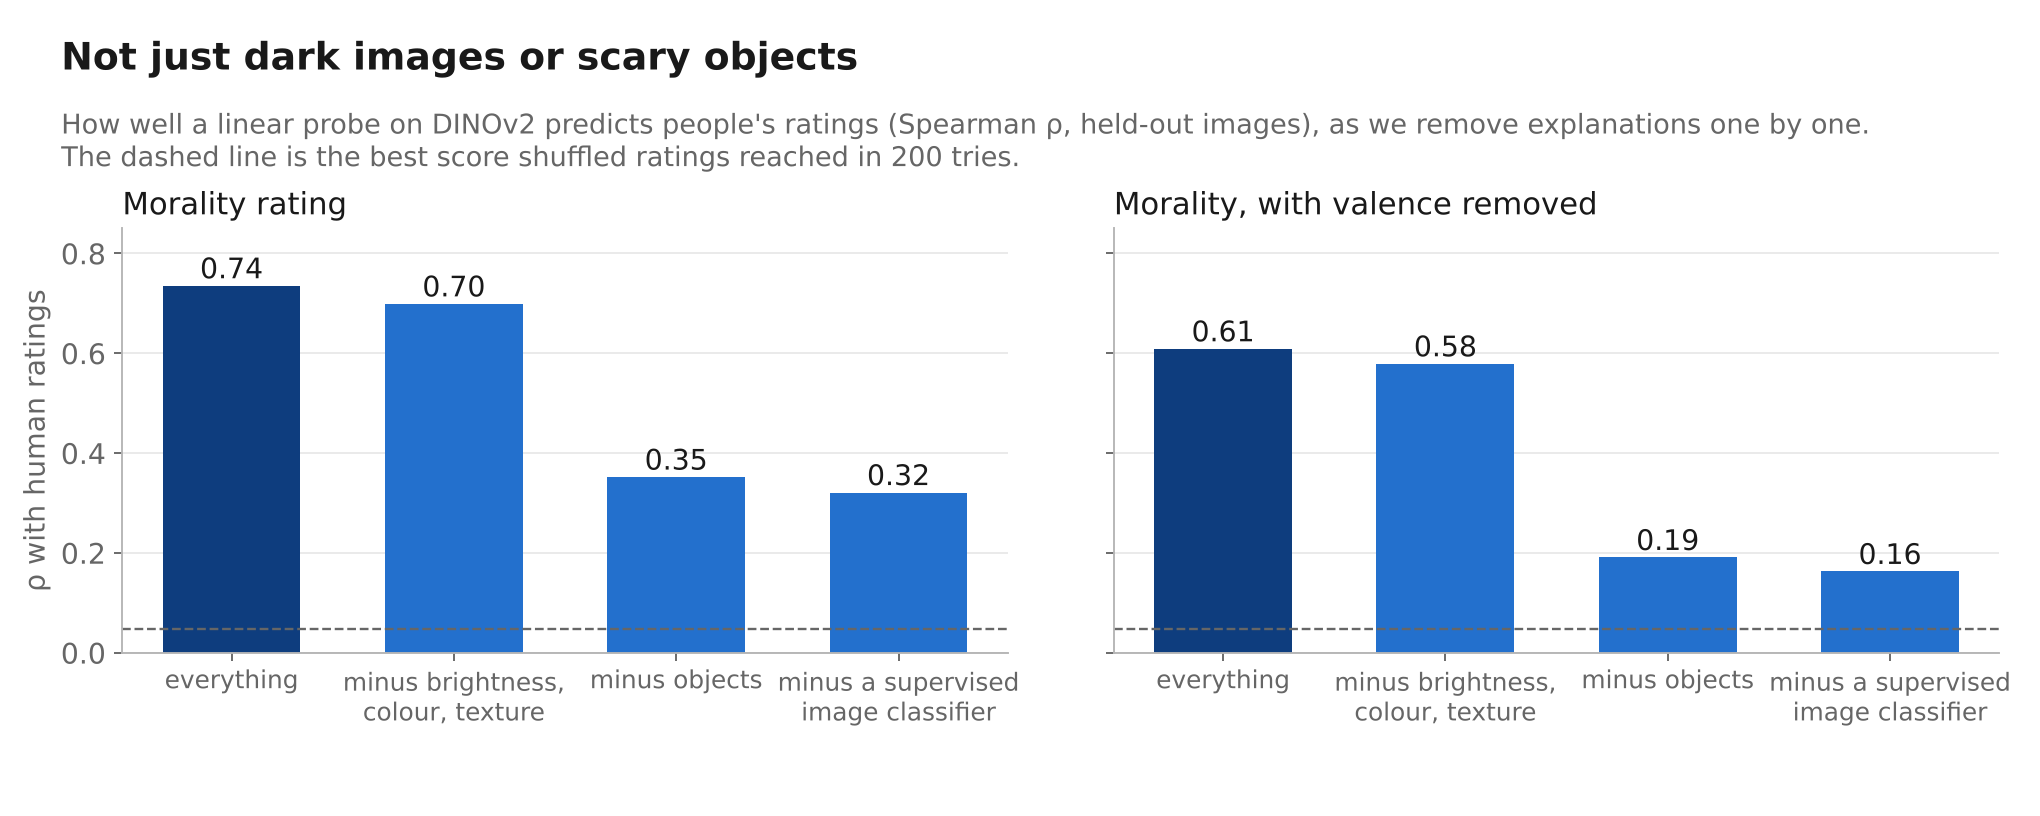
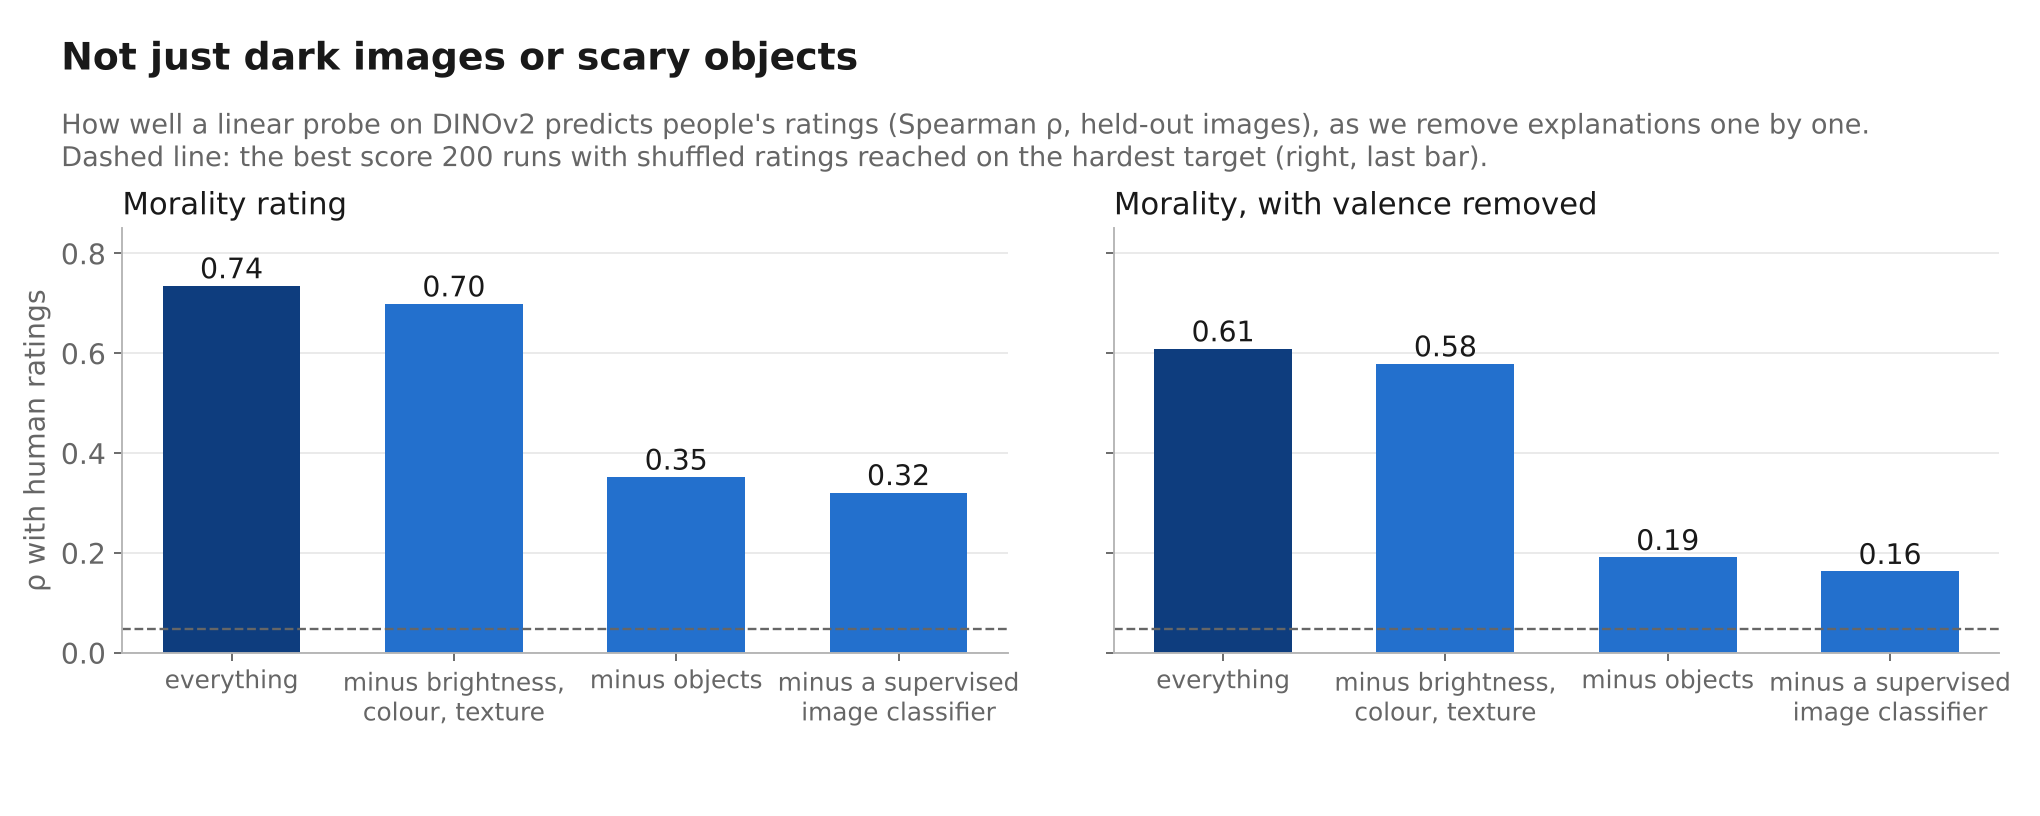
README as a short story; photo, word and shared-direction figures
Claude-Session: https://claude.ai/code/session_01EmQii7wm2z1HYEgYwzsuwy

Changed region(s): [[0.0309, 0.1838, 0.7412, 0.2145]]

diff --git a/src/make_story_figures.py b/src/make_story_figures.py
@@ -28,7 +28,7 @@ def controls():
     fig.subplots_adjust(top=0.72, bottom=0.2, left=0.06, right=0.98, wspace=0.12)
     title(fig, "Not just dark images or scary objects",
           "How well a linear probe on DINOv2 predicts people's ratings (Spearman ρ, held-out images), as we remove explanations one by one.\n"
-          "The dashed line is the best score shuffled ratings reached in 200 tries.")
+          "Dashed line: the best score 200 runs with shuffled ratings reached on the hardest target (right, last bar).")
     for a, vals, name in [(ax[0], mor, "Morality rating"), (ax[1], mbv, "Morality, with valence removed")]:
         cols = [DARK] + [BLUE] * 3
         a.bar(range(4), vals, color=cols, width=0.62)
@@ -116,7 +116,61 @@ def shared():
     fig.savefig(FIG / "story_shared.png", dpi=170); plt.close(fig)
 
 
+ORANGE = "#e76624"
+
+
+def _crop(path, ratio=4 / 3):
+    from PIL import Image
+    im = Image.open(path).convert("RGB"); w, h = im.size
+    if w / h > ratio:
+        nw = int(h * ratio); im = im.crop(((w - nw) // 2, 0, (w - nw) // 2 + nw, h))
+    else:
+        nh = int(w / ratio); im = im.crop((0, (h - nh) // 2, w, (h - nh) // 2 + nh))
+    return im
+
+
+def hero():
+    """Five SMID photos in the order DINOv2 places them, from morally bad to good."""
+    P = pd.read_csv(R / "story" / "example_picks.csv")
+    P = P[P.group == "hero"].sort_values("dinov2_morality_percentile")
+    fig = plt.figure(figsize=(13, 4.6))
+    title(fig, "A vision model that never saw a label or a word orders images from bad to good",
+          "SMID photos in the order a linear probe on DINOv2 places them. Below each: the average human morality rating (1 = very bad, 5 = very good).")
+    n = len(P); w = 0.94 / n
+    for i, r in enumerate(P.itertuples()):
+        a = fig.add_axes([0.03 + i * w, 0.27, w - 0.012, 0.5])
+        a.imshow(_crop(R / "story" / "thumbs" / f"{r.image}.jpg")); a.axis("off")
+        fig.text(0.03 + i * w + (w - 0.012) / 2, 0.2, f"people: {r.morality_rating:.1f}", ha="center", fontsize=12, color=INK)
+    import numpy as np
+    a = fig.add_axes([0.03, 0.08, 0.928, 0.04])
+    a.imshow(np.linspace(0, 1, 256)[None, :], aspect="auto", cmap=__import__("matplotlib").colors.LinearSegmentedColormap.from_list("g", [ORANGE, "#d9d9d9", DARK]))
+    a.set_xticks([]); a.set_yticks([]); [sp.set_visible(False) for sp in a.spines.values()]
+    fig.text(0.03, 0.015, "DINOv2: morally bad", color=ORANGE, fontsize=12, weight="bold")
+    fig.text(0.958, 0.015, "DINOv2: morally good", color=DARK, fontsize=12, weight="bold", ha="right")
+    fig.savefig(FIG / "story_hero.png", dpi=170); plt.close(fig)
+
+
+def offdiag():
+    """Where morality and pleasantness disagree."""
+    P = pd.read_csv(R / "story" / "example_picks.csv")
+    fig = plt.figure(figsize=(13, 8.2))
+    title(fig, "Morality is not just pleasantness, and DINOv2 knows the difference",
+          "Images DINOv2 scores highest and lowest on morality after removing pleasantness (valence). People agree.\n"
+          "Numbers are average human ratings from 1 to 5.")
+    rows = [("good_but_unpleasant", "Morally good, though unpleasant", DARK, 0.42),
+            ("pleasant_not_moral", "Pleasant, but not especially good", ORANGE, 0.03)]
+    for g, head, col, y0 in rows:
+        d = P[P.group == g]
+        fig.text(0.03, y0 + 0.335, head, fontsize=14, color=col, weight="bold")
+        for i, r in enumerate(d.itertuples()):
+            a = fig.add_axes([0.03 + i * 0.237, y0 + 0.05, 0.225, 0.27])
+            a.imshow(_crop(R / "story" / "thumbs" / f"{r.image}.jpg")); a.axis("off")
+            fig.text(0.03 + i * 0.237 + 0.1125, y0 + 0.012, f"pleasant {r.valence_rating:.1f}  ·  moral {r.morality_rating:.1f}",
+                     ha="center", fontsize=11.5, color=INK)
+    fig.savefig(FIG / "story_offdiagonal.png", dpi=170); plt.close(fig)
+
+
 if __name__ == "__main__":
     FIG.mkdir(exist_ok=True)
-    controls(); depth(); words(); shared()
+    controls(); depth(); words(); shared(); hero(); offdiag()
     print("saved")

diff --git a/README.md b/README.md
@@ -1,96 +1,65 @@
-# Valence in visual models
+# Does a vision model know good from bad?
 
-Language models learn something like a concept of good and bad from human text. This repo asks whether a vision model trained only on images, with no labels and no language, learns it too.
+Language models pick up a sense of good and bad, and some moral judgment. That is not surprising: their training text is full of people explaining what is right and wrong. A vision model trained only on images, with no labels and no words, has no such teacher. Does it get there anyway?
 
-We probe DINOv2, a self-supervised vision transformer, on the Socio-Moral Image Database (SMID): 2,940 photos rated by people for how pleasant they are (valence) and how morally good or bad the depicted scene is (morality). A linear probe on frozen DINOv2 features predicts both ratings well. The signal survives removing image statistics and object identity, it forms late in the network, and it grows with model size faster than object recognition does.
+We think it does. We probe the embedding space of **DINOv2**, a self-supervised vision transformer, on 2,940 photos from the Socio-Moral Image Database (SMID). People rated each photo for how morally good or bad it is, and for how pleasant or unpleasant it is (valence).
 
-![Headline results](figures/fig_headline.png)
+![DINOv2 orders images from bad to good](figures/story_hero.png)
 
-## Main findings
+A linear probe on frozen DINOv2 features predicts the human morality rating at ρ = 0.74 on held-out images (valence: 0.76).
 
-All numbers are Spearman ρ between held-out probe predictions and the mean human rating (5-fold, out-of-fold), with 95% bootstrap intervals where given. "Controls" means low-level image statistics, the 1,000 ImageNet logits of a supervised ViT, and that ViT's final features, removed with a cross-fitted linear probe.
+## "It's just dark images and scary objects"
 
-1. **DINOv2 tracks both ratings.** The largest model (ViT-g, 1.1B parameters) reaches ρ = 0.76 for valence and 0.74 for morality. Separating the top third of images from the bottom third gives AUROC 0.94 for each.
-2. **It is more than objects and image statistics.** After the controls, DINOv2 still predicts valence at 0.36 (0.32 to 0.39) and morality at 0.32 (0.29 to 0.35). Within clusters of images that share object content, it ranks valence at 0.67, against 0.55 for the control features themselves. Trained on some object groups and tested on unseen ones, it drops only from 0.76 to 0.74, while a probe on object features alone gets 0.59 (panel D).
-3. **It forms late and grows with scale.** Object content is readable from the first layers. The moral signal left after removing valence and the controls is at or below zero for the first 60% of the network in every size, then rises in the last third (panel B). From the smallest to the largest model it grows by 0.11 (0.07 to 0.14), while object content grows by 0.01 (panel C).
-4. **Part of morality is separate from pleasantness.** That leftover moral signal is small but real: ρ = 0.16 (0.13 to 0.20), and none of 200 label shuffles reached 0.05. Images rated more moral than their pleasantness predicts line up with CLIP words such as compassion, respect, care, grief and nurse. Images rated less moral than predicted line up with fun, phone, horse, car and cat. In other words, the model separates scenes of care during suffering from pleasant but morally neutral scenes.
-5. **The direction is shared with a language-trained model.** A linear map from DINOv2 to CLIP, fit on 5,000 unrated COCO photos, lets CLIP's valence probe read valence from DINOv2 features at 0.66 (DINOv2's own probe: 0.76). With a map fit on the SMID images themselves, DINOv2's valence direction ranks CLIP words from love, peace and kindness to war, murder and pain. The COCO-fit map reproduces the valence result but not a clean match to moral wording, so treat the word lists as illustration.
+A fair suspicion. So we remove those explanations one at a time: first brightness, colour and texture, then object identity (the 1,000 ImageNet classes), then everything a supervised image classifier sees. The signal shrinks but stays well above chance. The same holds for the part of morality that has nothing to do with pleasantness (right).
 
-## What this does not show
+![Not just dark images or scary objects](figures/story_controls.png)
 
-- **The morality-specific part does not survive the strictest control.** Removing everything the control features predict, linearly and with k-NN and gradient boosting stacked, leaves valence at 0.23 and morality at 0.20, but the part of morality beyond valence drops to 0.03 (not significant). The supervised ViT in the controls carries some of this signal itself, so this control removes more than objects. CLIP keeps 0.29 under the same control.
-- **CLIP is stronger.** CLIP image features beat DINOv2 everywhere, for example 0.37 against 0.16 on the leftover moral signal. Language supervision helps.
-- **The size comparison uses distilled models.** DINOv2's smaller models are distilled from the 1.1B model, so "larger" partly means "keeps more of the teacher". Separately trained sizes would make a cleaner test.
-- **One dataset.** All ratings come from SMID. A second rated image set would test generality.
-- **Not yet run:** a randomly initialised DINOv2 baseline and a larger DINOv2-to-CLIP map fit on Places365. Both need a GPU and are in step 16 of the notebook.
-- **Probe, not judgment.** A probe shows that the information is linearly readable. It does not show that the model uses it or judges anything.
+## "It's not morality, it's just pleasant vs unpleasant"
 
-## What the ratings look like
+Morality and pleasantness are strongly correlated in SMID (0.87), so this is the harder objection. Removing pleasantness from the morality rating leaves a smaller signal, and DINOv2 still predicts it: ρ = 0.61, and 0.16 after also removing objects, where no run on shuffled labels out of 200 got above 0.05. What it picks up is intuitive. Rescue workers, firefighters and nurses are unpleasant to look at but morally good; burgers, cash and sports cars are pleasant but not especially good.
 
-Five SMID images per scale, ordered from low to high rating. SMID includes disturbing images.
+![Morality is not just pleasantness](figures/story_offdiagonal.png)
 
-![SMID gallery](figures/fig_gallery_valence_morality_arousal.png)
+## "Are these labels really about morality?"
 
-## Method
+Ratings are noisy, so we asked DINOv2's direction what it means, in words. We translate DINOv2's features into CLIP's shared image-text space with a linear map learned on unrated COCO photos; the map never sees SMID or any rating. Then we check which words best match the images DINOv2 scores high and low, from a fixed vocabulary of 150 virtues, vices, emotions and everyday things.
 
-- **Models.** DINOv2 ViT-S/14, B/14, L/14 and g/14 (`facebook/dinov2-*` on Hugging Face). Each image's feature at a layer is the CLS token concatenated with the mean patch token. References: CLIP ViT-L/14 and a supervised ViT-B/16 (`google/vit-base-patch16-224`).
-- **Probe.** Standardise, PCA to 256 dimensions, ridge regression with the penalty chosen by internal cross-validation; 5-fold out-of-fold predictions.
-- **Controls.** 57 low-level image statistics, such as brightness, contrast, colourfulness and edge density, ImageNet logits and supervised-ViT features. They are removed from the rating with cross-fitted predictions, and the DINOv2 probe is then trained on what is left.
-- **Morality beyond valence.** The morality rating minus a cubic-spline fit on valence. Image-level valence and morality correlate at 0.87, so this part is about a quarter of the morality variance. About 30% of it is rater noise, estimated from SMID's per-image standard errors.
-- **Cross-model map.** Ridge regression from DINOv2-g layer 37 to CLIP image embeddings, fit only on unrated COCO val2017 photos, then applied unchanged to SMID.
+![What DINOv2's direction means in words](figures/story_words.png)
+
+The morality direction reads as fairness, volunteering and helping others against decay, neglect and vandalism. The "good beyond pleasant" direction reads as volunteering, heroism, cooperation and respect against beauty, pets, pizza and flowers: virtue words beat merely pleasant words 84% of the time. One surprise in that list is "slavery" in fifth place, likely from SMID's historical and memorial photos.
+
+## How does a model that never saw a word learn this?
+
+**It forms late, and grows with scale.** Object identity is readable from DINOv2's first layers. The moral signal, after removing pleasantness and objects, is absent for the first half of the network, appears in the last third, and is stronger in larger models.
+
+![It appears in the last layers and grows with size](figures/story_depth_scale.png)
+
+**Different models converge on the same direction.** CLIP learned good vs bad from captions; DINOv2 never saw one. Yet CLIP's morality direction, carried into DINOv2 through a translation learned without any ratings, predicts morality from DINOv2's features at 0.73, nearly as well as DINOv2's own probe (0.74). The agreement grows with depth and with model size, and good vs bad takes up more of DINOv2's ten main axes in larger models.
+
+![Two models, one direction](figures/story_shared.png)
+
+Our reading: good vs bad is part of the structure of the world people photograph (who helps, who harms, what happens to whom), so a model that learns that world well enough ends up representing it. This fits the [Platonic Representation Hypothesis](https://arxiv.org/abs/2405.07987) and the [Natural Abstraction Hypothesis](https://www.lesswrong.com/posts/Fut8dtFsBYRz8atFF/the-natural-abstraction-hypothesis-implications-and-evidence). It is one dataset and a linear probe, so treat it as evidence, not proof.
+
+## Caveats
+
+- One rated dataset (SMID). A second one would test how general this is.
+- DINOv2's smaller models are distilled from the largest, so the size trend is partly about how much of the teacher a student keeps.
+- CLIP, trained with language, is stronger everywhere. Under the strictest control (non-linear removal of everything a supervised classifier sees), the morality-beyond-pleasantness signal in DINOv2 is no longer significant.
+- A probe shows the information is there and linearly readable, not that the model uses it.
 
 ## Reproduce
 
-Everything runs in Google Colab from [`notebooks/valence_probe_colab.ipynb`](notebooks/valence_probe_colab.ipynb). The notebook downloads the scripts from this repo and saves features and results to Google Drive, so a dropped runtime only loses the step that was running.
+Everything runs in Google Colab from [`notebooks/valence_probe_colab.ipynb`](notebooks/valence_probe_colab.ipynb). Accept the SMID terms on [Hugging Face](https://huggingface.co/datasets/AIML-TUDA/smid) and add a read token as a Colab secret named `HF_TOKEN`. Feature extraction (steps 1 to 5, 9 and 12) needs a GPU. The analysis steps run on CPU and save everything to Google Drive, so a dropped runtime only loses the step that was running.
 
-Before you start:
-1. Accept the SMID terms at [huggingface.co/datasets/AIML-TUDA/smid](https://huggingface.co/datasets/AIML-TUDA/smid).
-2. Add a Hugging Face read token as a Colab secret named `HF_TOKEN`.
-3. Use a GPU runtime for the feature-extraction steps. The analysis steps run on CPU.
-
-| Notebook step | What it does | Runtime |
-|---|---|---|
-| 1 to 5 | Download SMID, extract per-layer DINOv2 features for all four sizes, delete the images | GPU, about 25 min |
-| 6 and 7 | Probes per layer and size, scaling figure | CPU, 1 to 2 h |
-| 8 | Rating gallery | CPU |
-| 9 | Control features (image statistics, supervised ViT) and CLIP embeddings | GPU, about 10 min |
-| 10 and 11 | Probes after controls, CLIP language axes, robustness of morality beyond valence | CPU, about 25 min |
-| 12 | DINOv2-to-CLIP map fit on COCO | GPU 6 min, then CPU 8 min |
-| 15 | Significance and noise ceilings for the moral signal, round-3 analysis | CPU, about 35 min |
-| 16 | Non-linear controls, held-out object groups, size and depth after controls, alignment with CLIP; GPU-only extras if a GPU is present | CPU, about 35 min |
-
-To redraw the headline figure from the saved tables:
+To redraw the figures from the saved tables:
 
 ```bash
-pip install pandas matplotlib
-python src/make_figure_headline.py
+pip install pandas matplotlib pillow
+python src/make_story_figures.py
 ```
 
-### Repository layout
+Result tables are in [`results/`](results) and the scripts in [`src/`](src).
 
-| Path | Contents |
-|---|---|
-| `src/extract_features.py`, `src/extract_controls_clip.py`, `src/extract_round3.py` | Feature extraction (GPU) |
-| `src/run_probes.py` | Per-layer probes across model sizes |
-| `src/analyze_controls_clip.py`, `src/coco_translation.py`, `src/analyze_round3.py` | Controls, CLIP map, language axes |
-| `src/morality_diagnostics.py` | Permutation test, noise ceiling, content of the moral signal |
-| `src/strengthen.py`, `src/scale_depth.py` | Non-linear controls, held-out object groups, size and depth after controls |
-| `results/` | All result tables as CSV |
-| `figures/` | Figures, with the scripts that draw them in `src/make_figure_*.py` |
+## Credits
 
-## Data and licensing
-
-SMID images are not redistributed here, except the 15 thumbnails in the gallery figure. They come from the Socio-Moral Image Database (Crone, Bode, Murawski & Laham, 2018, PLOS ONE). Individual images are Creative Commons licensed, with per-image credits in SMID's documentation. SMID contains disturbing images.
-
-## Related work
-
-- Huh, Cheung, Wang & Isola, [The Platonic Representation Hypothesis](https://arxiv.org/abs/2405.07987) (2024): representations of different models converge as they scale.
-- Jha et al., [Harnessing the Universal Geometry of Embeddings](https://arxiv.org/abs/2505.12540) (2025): unsupervised translation between embedding spaces.
-- Tasker, Betser, Gofer, Levi & Gilboa, [The Universal Normal Embedding](https://arxiv.org/abs/2603.21786) (2026): a shared Gaussian latent space for vision encoders.
-- Zhu, Ramezani & Xu, *Visual moral inference and communication* (CogSci 2025): CLIP probes on SMID.
-- Schramowski et al., [Q16](https://arxiv.org/abs/2202.06675) (2022): CLIP prompt-tuning on SMID for inappropriate-content detection.
-- Oquab et al., [DINOv2](https://arxiv.org/abs/2304.07193) (2023).
-
-## Acknowledgements
-
-Thanks to Damien Crone and colleagues for SMID and its rating data, and to AIML-TUDA for hosting it on Hugging Face. DINOv2 is from Meta AI, CLIP from OpenAI, and the supervised ViT from Google; all were used through Hugging Face Transformers. COCO and Places365 photos were used, unrated, to fit the cross-model maps. Compute was Google Colab. Code, analysis and drafts were developed with help from Claude (Anthropic).
+SMID is by Crone, Bode, Murawski and Laham (2018, PLOS ONE), hosted on Hugging Face by AIML-TUDA. Its images are Creative Commons licensed and are not redistributed here beyond the thumbnails in the figures. DINOv2 is from Meta AI, CLIP from OpenAI and the supervised ViT from Google, all used through Hugging Face Transformers. COCO photos were used, unrated, to fit the DINOv2-to-CLIP map. Compute was Google Colab. Built with help from Claude (Anthropic).
